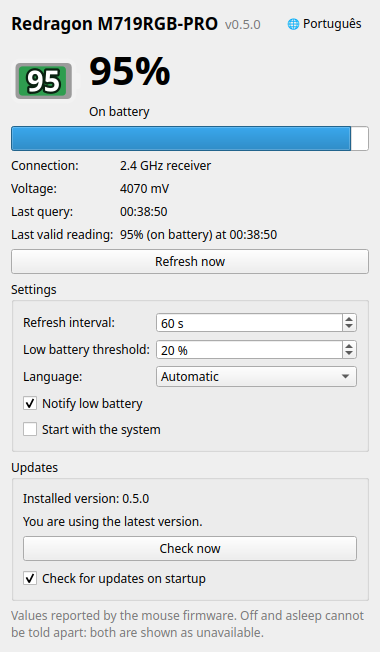
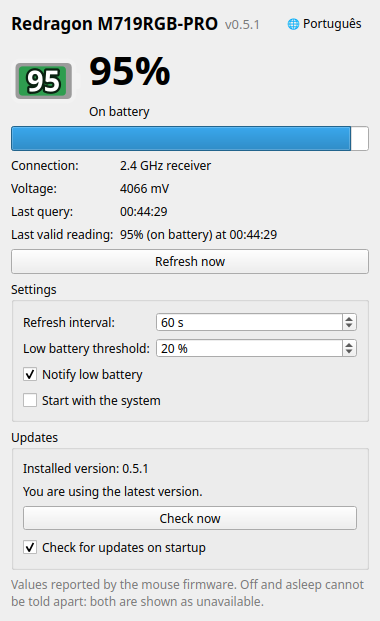
Versão 0.5.1: remove o campo de idioma das configurações e mantém o botão do topo

Changed region(s): [[0.0289, 0.0, 0.9842, 0.9791], [0.7526, 0.0306, 0.9553, 0.0612]]

diff --git a/src/redragon_monitor/presentation/gui/main_window/main_window.py b/src/redragon_monitor/presentation/gui/main_window/main_window.py
@@ -6,7 +6,6 @@ from PySide6.QtCore import Signal
 from PySide6.QtGui import QCloseEvent, QFont
 from PySide6.QtWidgets import (
     QCheckBox,
-    QComboBox,
     QFormLayout,
     QGroupBox,
     QHBoxLayout,
@@ -28,7 +27,6 @@ from redragon_monitor.update.domain.update_status import UpdateStatus
 EMPTY = "—"
 ICON_SIZE = 72
 MIN_WIDTH = 380
-LANGUAGE_OPTIONS = (("auto", None), ("pt", "Português"), ("en", "English"))
 LANGUAGE_TOGGLE = {"pt": ("en", "🌐 English"), "en": ("pt", "🌐 Português")}
 UPDATE_KEYS = {
     UpdateStatus.AVAILABLE: "update.available",
@@ -87,11 +85,9 @@ class MainWindow(QWidget):
         self.settings_box.setTitle(t("window.settings"))
         self.interval_caption.setText(t("window.interval"))
         self.threshold_caption.setText(t("window.threshold"))
-        self.language_caption.setText(t("window.language"))
         self.notify_check.setText(t("window.notify"))
         self.autostart_check.setText(t("window.autostart"))
         self.note_label.setText(t("window.note"))
-        self.language_combo.setItemText(0, t("window.language.auto"))
         self.language_button.setText(LANGUAGE_TOGGLE.get(self._text.language, LANGUAGE_TOGGLE["pt"])[1])
         self.update_box.setTitle(t("update.section"))
         self.version_label.setText(t("update.installed", version=self._installed_version))
@@ -158,8 +154,7 @@ class MainWindow(QWidget):
         self.update_status_label.setText(self._text.t(UPDATE_KEYS[self._update.status], version=latest))
 
     def _toggle_language(self) -> None:
-        target = LANGUAGE_TOGGLE.get(self._text.language, LANGUAGE_TOGGLE["pt"])[0]
-        self.language_combo.setCurrentIndex(self.language_combo.findData(target))
+        self.language_changed.emit(LANGUAGE_TOGGLE.get(self._text.language, LANGUAGE_TOGGLE["pt"])[0])
 
     def _show_reading(self, status: BatteryStatus) -> None:
         reading = status.reading
@@ -181,9 +176,6 @@ class MainWindow(QWidget):
     def _on_threshold(self, value: int) -> None:
         self._threshold = value
         self.threshold_changed.emit(value)
-
-    def _on_language(self, index: int) -> None:
-        self.language_changed.emit(self.language_combo.itemData(index))
 
     def _set_icon(self, percent: Optional[int], charging: bool) -> None:
         self.icon_label.setPixmap(self._painter.pixmap(percent, charging, self._threshold, ICON_SIZE))
@@ -226,12 +218,6 @@ class MainWindow(QWidget):
         self.threshold_spin.setSuffix(" %")
         self.threshold_spin.setValue(settings.threshold)
         self.threshold_spin.valueChanged.connect(self._on_threshold)
-        self.language_caption = QLabel()
-        self.language_combo = QComboBox()
-        for code, name in LANGUAGE_OPTIONS:
-            self.language_combo.addItem(name or code, code)
-        self.language_combo.setCurrentIndex(self.language_combo.findData(settings.language))
-        self.language_combo.currentIndexChanged.connect(self._on_language)
         self.notify_check = QCheckBox()
         self.notify_check.setChecked(settings.notify)
         self.notify_check.toggled.connect(self.notify_changed)
@@ -290,7 +276,6 @@ class MainWindow(QWidget):
         config = QFormLayout()
         config.addRow(self.interval_caption, self.interval_spin)
         config.addRow(self.threshold_caption, self.threshold_spin)
-        config.addRow(self.language_caption, self.language_combo)
         config.addRow(self.notify_check)
         config.addRow(self.autostart_check)
         self.settings_box = QGroupBox()

diff --git a/src/redragon_monitor/presentation/i18n/catalog/catalog.py b/src/redragon_monitor/presentation/i18n/catalog/catalog.py
@@ -48,8 +48,6 @@ PT = {
     "window.threshold": "Limite de bateria baixa:",
     "window.notify": "Notificar bateria baixa",
     "window.autostart": "Iniciar com o sistema",
-    "window.language": "Idioma:",
-    "window.language.auto": "Automático",
     "window.note": (
         "Valores informados pelo firmware do mouse. Desligado e em repouso "
         "não podem ser diferenciados: ambos aparecem como indisponível."
@@ -125,8 +123,6 @@ EN = {
     "window.threshold": "Low battery threshold:",
     "window.notify": "Notify low battery",
     "window.autostart": "Start with the system",
-    "window.language": "Language:",
-    "window.language.auto": "Automatic",
     "window.note": (
         "Values reported by the mouse firmware. Off and asleep cannot be "
         "told apart: both are shown as unavailable."

diff --git a/src/redragon_monitor/__init__.py b/src/redragon_monitor/__init__.py
@@ -1,1 +1,1 @@
-__version__ = "0.5.0"
+__version__ = "0.5.1"

diff --git a/README.en.md b/README.en.md
@@ -4,7 +4,7 @@
 
 **Real battery level of the Redragon M719RGB-PRO mouse on Ubuntu**
 
-[![Version](https://img.shields.io/badge/version-0.5.0-2e9d4f?style=for-the-badge)](https://github.com/jean-devbr/redragon-battery-monitor/tree/v0.5.0)
+[![Version](https://img.shields.io/badge/version-0.5.1-2e9d4f?style=for-the-badge)](https://github.com/jean-devbr/redragon-battery-monitor/tree/v0.5.1)
 
 ![Ubuntu](https://img.shields.io/badge/Ubuntu-24.04-E95420?style=flat-square&logo=ubuntu&logoColor=white)
 ![Python](https://img.shields.io/badge/Python-3.10%2B-3776AB?style=flat-square&logo=python&logoColor=white)
@@ -65,7 +65,7 @@ redragon-battery --lang pt
 
 ## Language
 
-The program follows the Ubuntu language automatically: Portuguese when the system is in Portuguese and English otherwise. To change it, use the **🌐 English / 🌐 Português** button at the top of the window, the **Language** field in the settings or the `--lang pt|en` option in the terminal.
+The program follows the Ubuntu language automatically: Portuguese when the system is in Portuguese and English otherwise. To change it, use the **🌐 English / 🌐 Português** button at the top of the window or the `--lang pt|en` option in the terminal.
 
 ## Updating
 

diff --git a/README.md b/README.md
@@ -4,7 +4,7 @@
 
 **Nível real da bateria do mouse Redragon M719RGB-PRO no Ubuntu**
 
-[![Versão](https://img.shields.io/badge/vers%C3%A3o-0.5.0-2e9d4f?style=for-the-badge)](https://github.com/jean-devbr/redragon-battery-monitor/tree/v0.5.0)
+[![Versão](https://img.shields.io/badge/vers%C3%A3o-0.5.1-2e9d4f?style=for-the-badge)](https://github.com/jean-devbr/redragon-battery-monitor/tree/v0.5.1)
 
 ![Ubuntu](https://img.shields.io/badge/Ubuntu-24.04-E95420?style=flat-square&logo=ubuntu&logoColor=white)
 ![Python](https://img.shields.io/badge/Python-3.10%2B-3776AB?style=flat-square&logo=python&logoColor=white)
@@ -65,7 +65,7 @@ redragon-battery --lang en
 
 ## Idioma
 
-O programa usa o idioma do Ubuntu automaticamente: português quando o sistema está em português e inglês nos demais casos. Para trocar, use o botão **🌐 English / 🌐 Português** no topo da janela, o campo **Idioma** nas configurações ou a opção `--lang pt|en` no terminal.
+O programa usa o idioma do Ubuntu automaticamente: português quando o sistema está em português e inglês nos demais casos. Para trocar, use o botão **🌐 English / 🌐 Português** no topo da janela ou a opção `--lang pt|en` no terminal.
 
 ## Atualização
 
